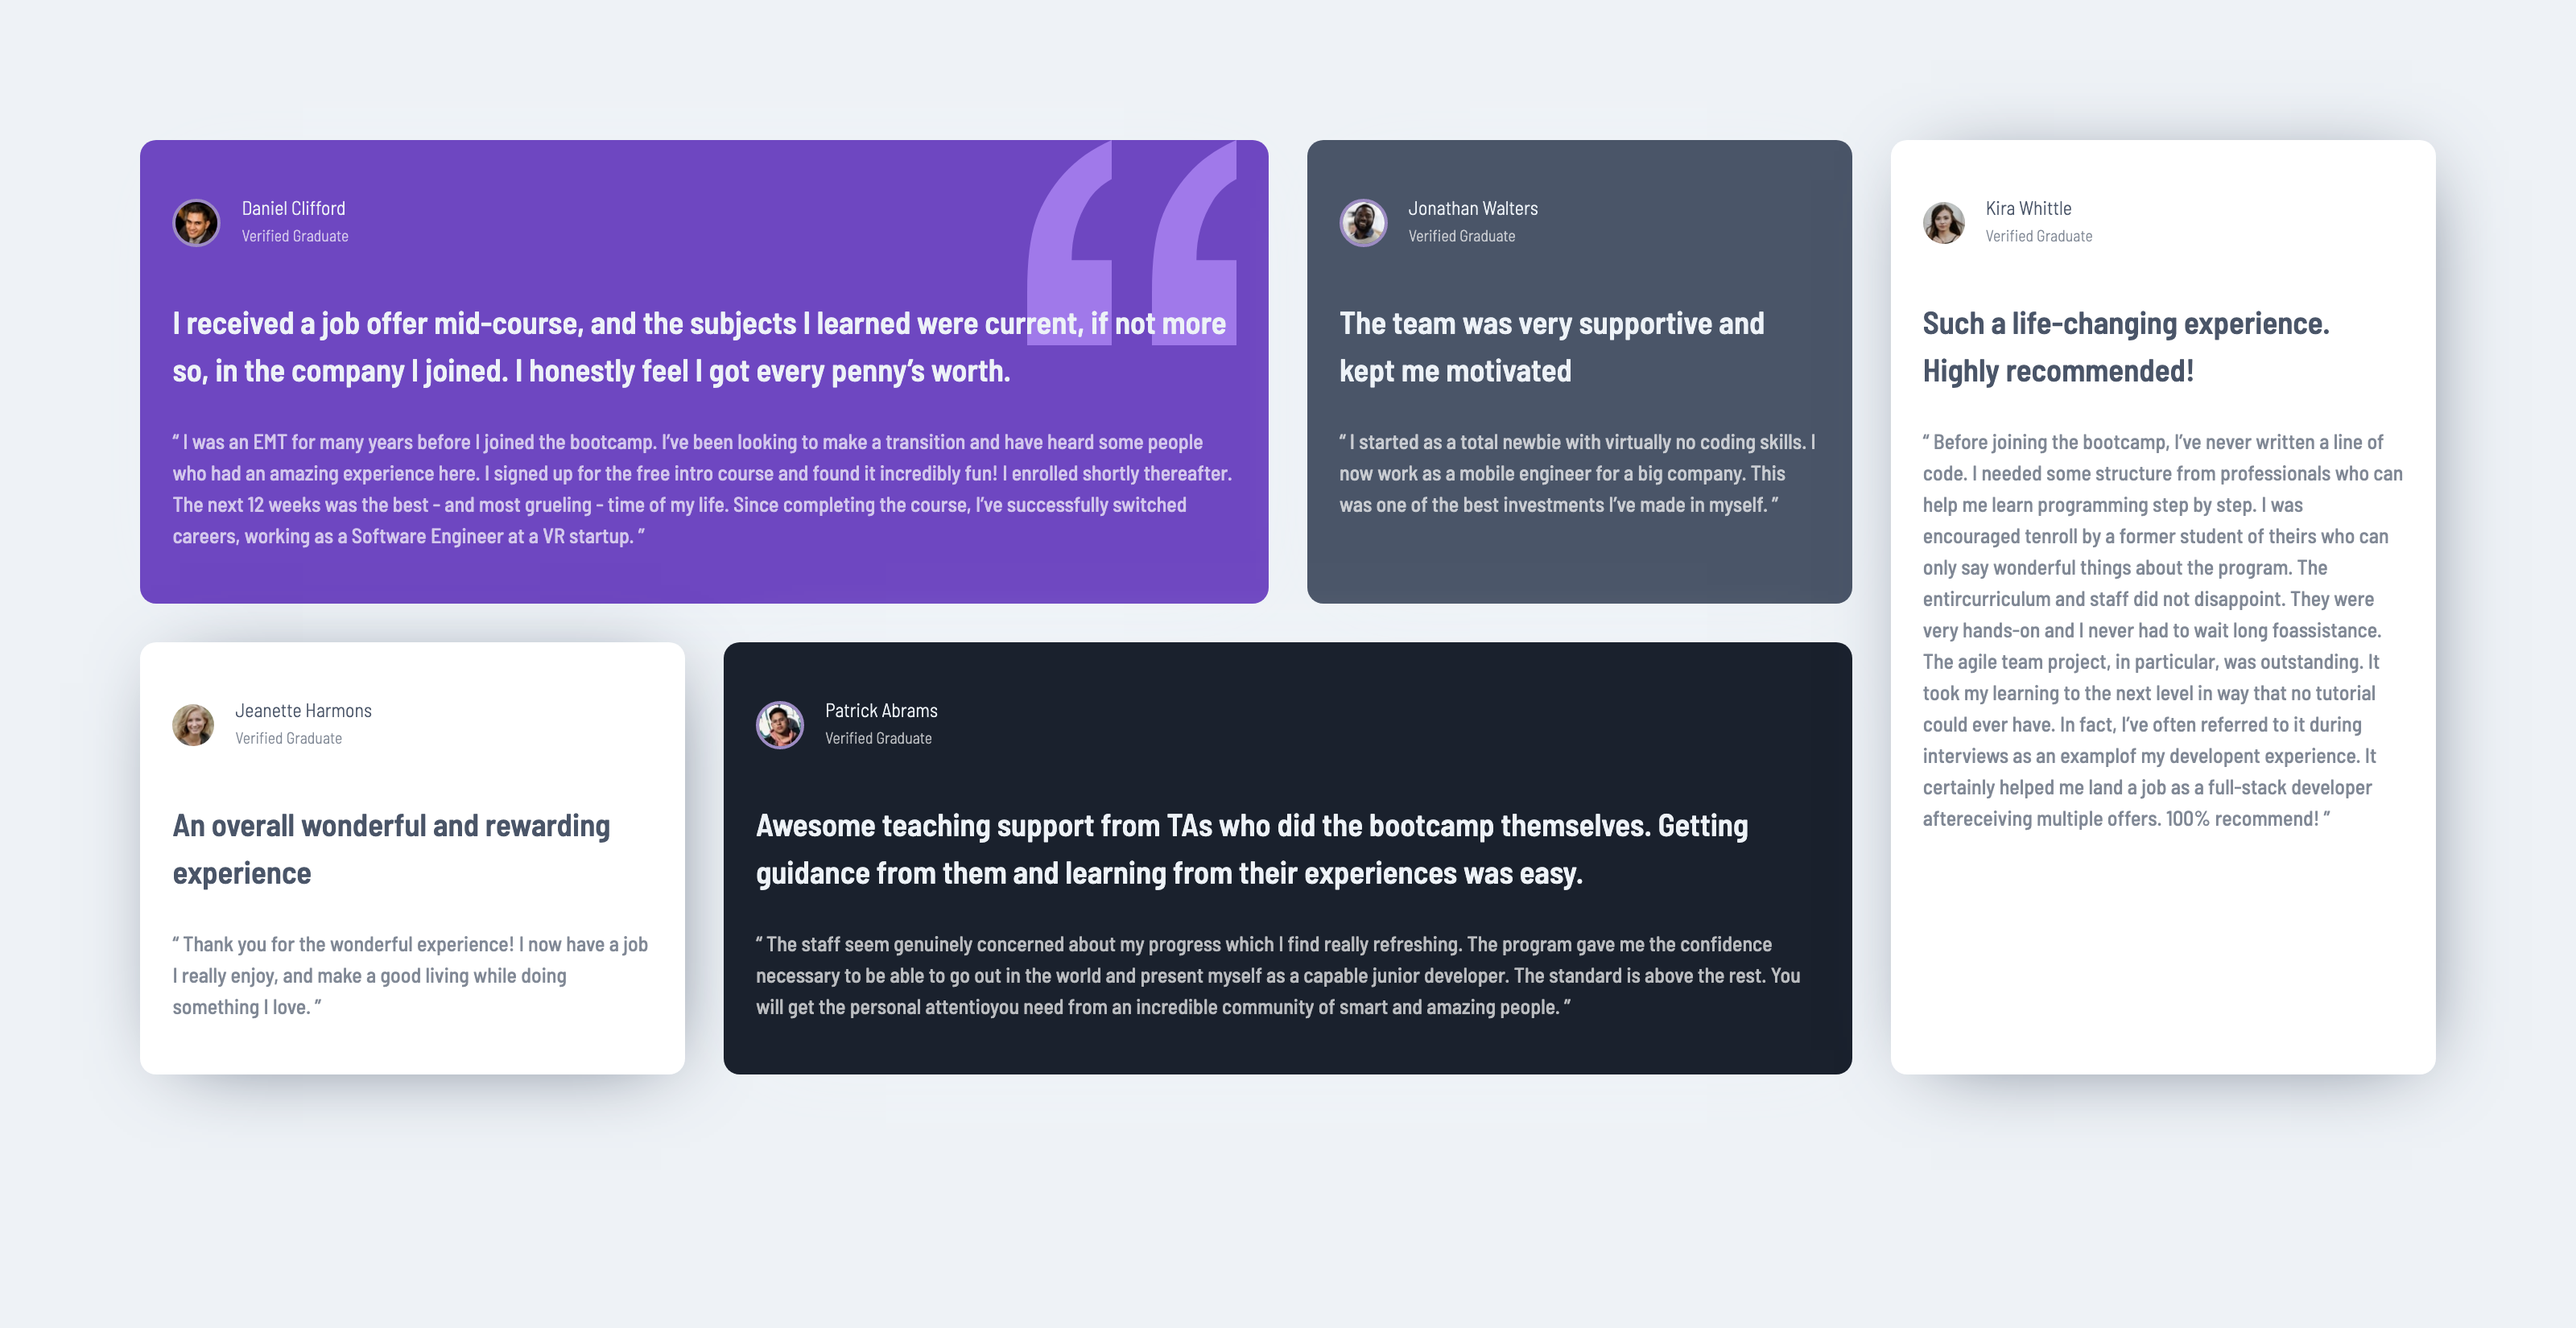
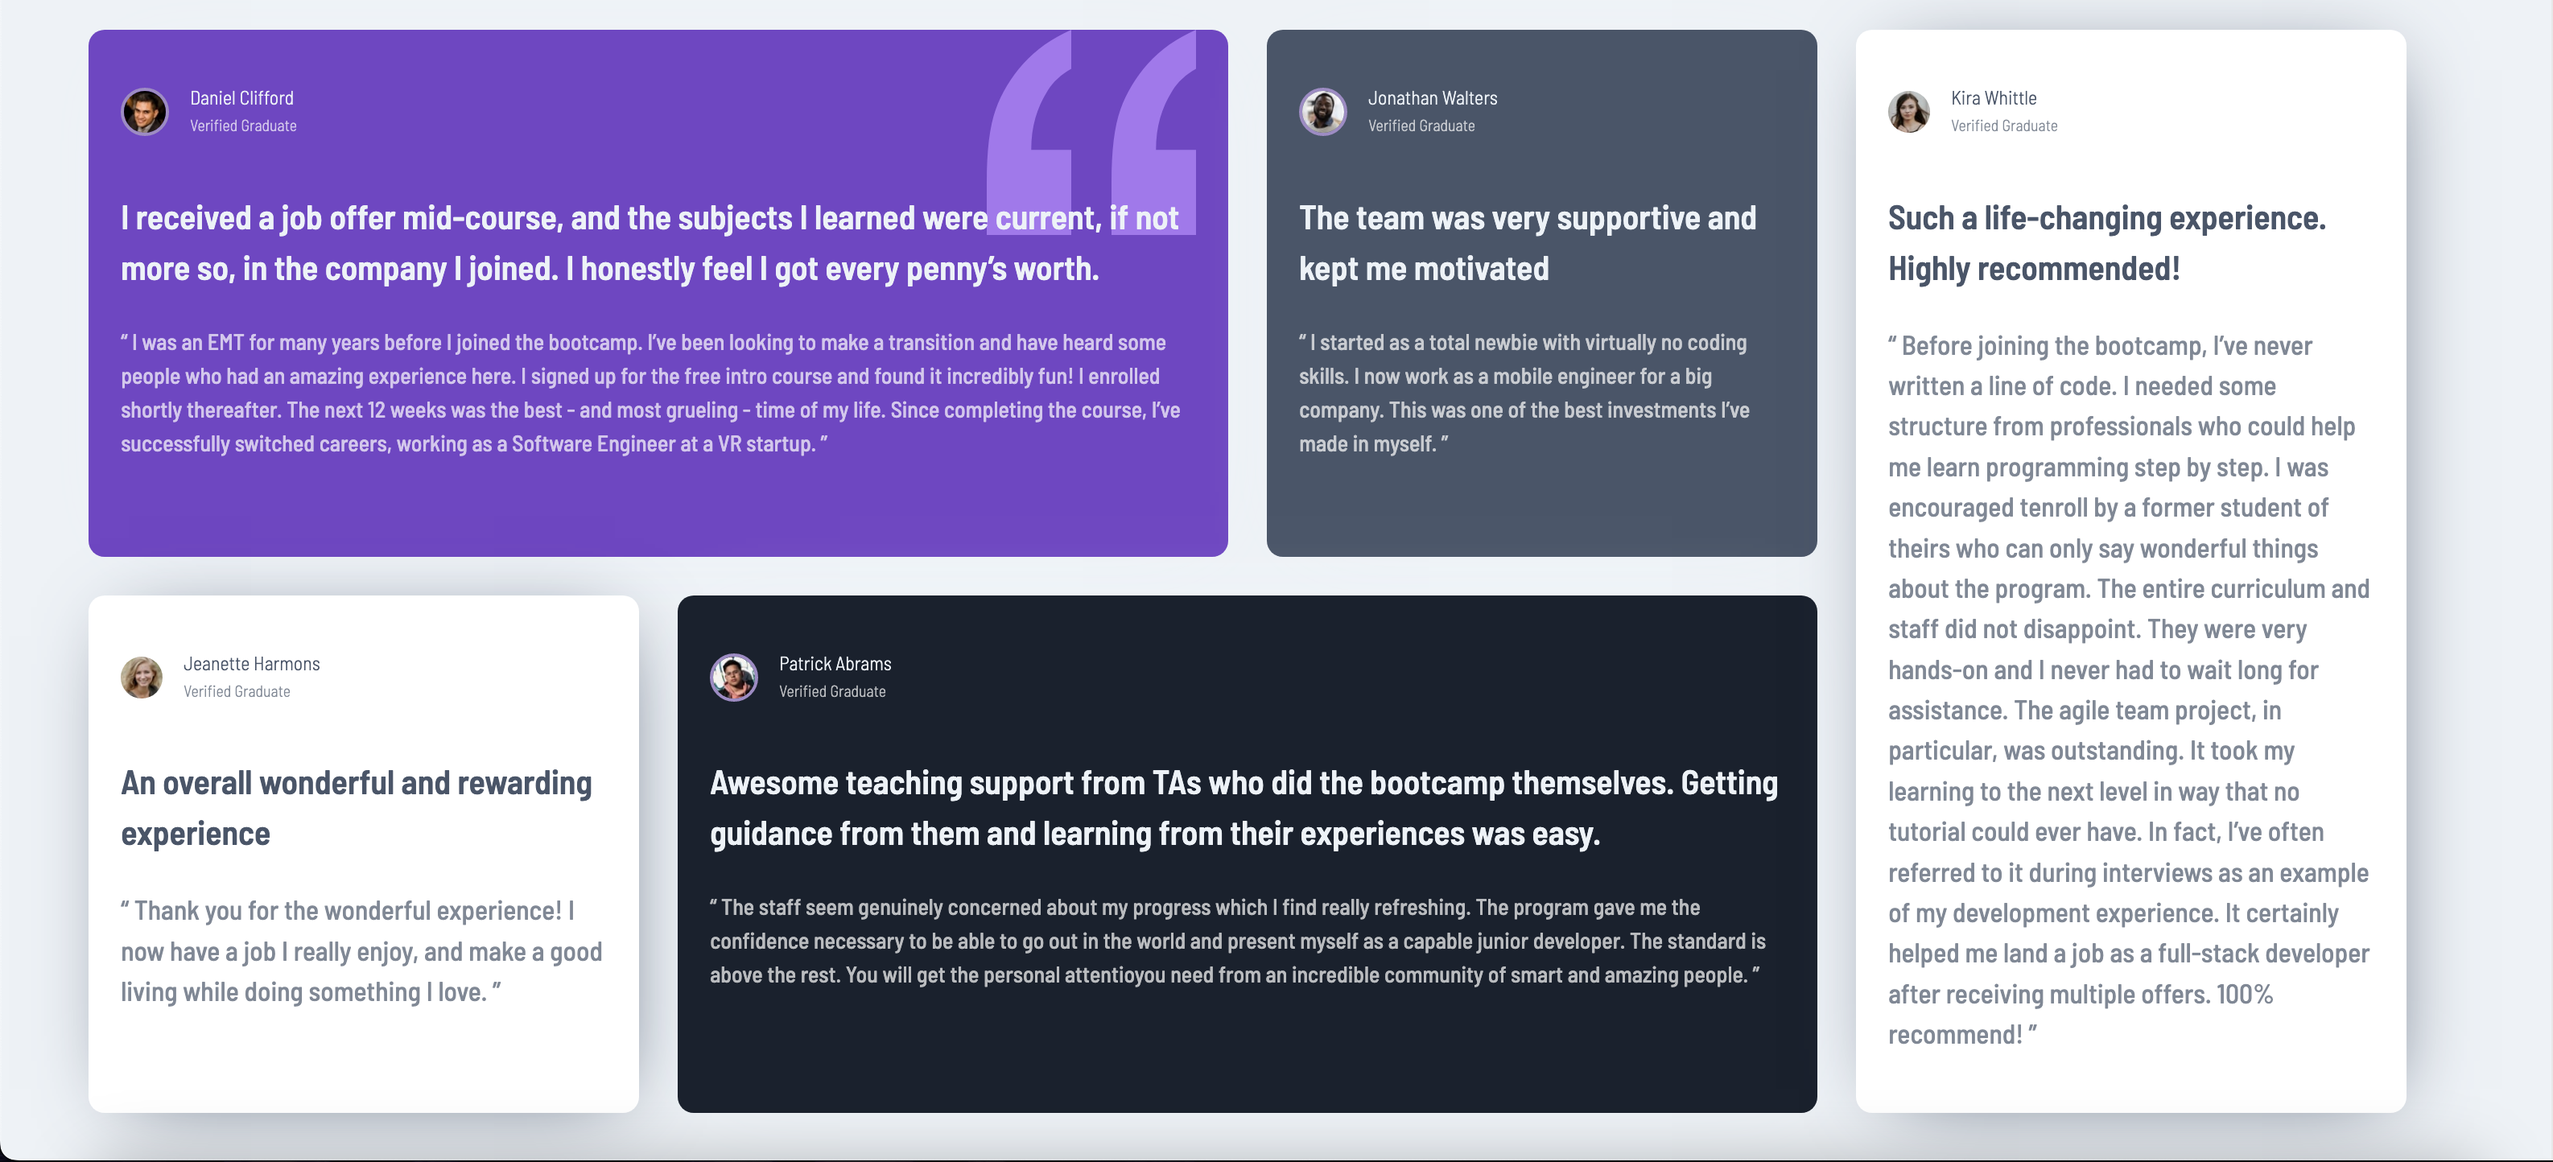
changed the screenshot

diff --git a/index.html b/index.html
@@ -220,14 +220,14 @@
             needed some structure from professionals who could help me learn
             programming step by step. I was encouraged tenroll by a former
             student of theirs who can only say wonderful things about the
-            program. The entire curriculum and staff did not disappoint. They were
-            very hands-on and I never had to wait long for assistance. The agile
-            team project, in particular, was outstanding. It took my learning to
-            the next level in way that no tutorial could ever have. In fact,
-            I’ve often referred to it during interviews as an example of my
-            development experience. It certainly helped me land a job as a
-            full-stack developer after receiving multiple offers. 100% recommend!
-            ”
+            program. The entire curriculum and staff did not disappoint. They
+            were very hands-on and I never had to wait long for assistance. The
+            agile team project, in particular, was outstanding. It took my
+            learning to the next level in way that no tutorial could ever have.
+            In fact, I’ve often referred to it during interviews as an example
+            of my development experience. It certainly helped me land a job as a
+            full-stack developer after receiving multiple offers. 100%
+            recommend! ”
           </p>
         </section>
       </article>
